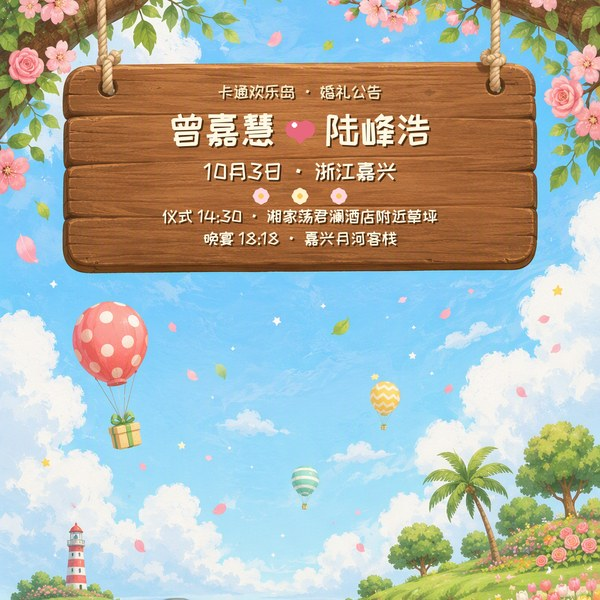
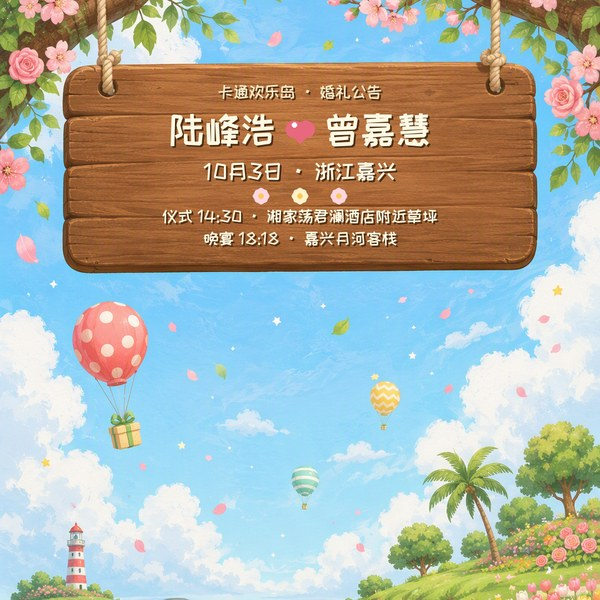
名字顺序统一为陆峰浩在前、曾嘉慧在后（标题/卡片/火漆印/广播字幕/海报）

Changed region(s): [[0.27, 0.18, 0.48, 0.27], [0.54, 0.18, 0.72, 0.27]]

diff --git a/index.html b/index.html
@@ -8,20 +8,20 @@
     <meta http-equiv="Expires" content="0" />
     <meta name="viewport" content="width=device-width, initial-scale=1, viewport-fit=cover" />
     <meta name="theme-color" content="#60bafa" />
-    <title>曾嘉慧 ♥ 陆峰浩 · 邀请你登岛</title>
+    <title>陆峰浩 ♥ 曾嘉慧 · 邀请你登岛</title>
     <meta name="description" content="卡通欢乐岛婚礼请柬 · 10月3日 浙江嘉兴 · 仪式14:30 晚宴18:18" />
     <!-- 微信 / QQ 分享卡片：聊天里粘贴只有文字链接，需在本页右上角「···」→「发送给朋友」才生成卡片 -->
     <meta property="og:type" content="website" />
     <meta property="og:site_name" content="卡通欢乐岛" />
-    <meta property="og:title" content="曾嘉慧 ♥ 陆峰浩 · 邀请你登岛" />
+    <meta property="og:title" content="陆峰浩 ♥ 曾嘉慧 · 邀请你登岛" />
     <meta property="og:description" content="卡通欢乐岛婚礼请柬 · 10月3日 浙江嘉兴 · 仪式14:30 晚宴18:18" />
     <meta property="og:url" content="https://artemistokenization.github.io/acnh-invitation/" />
     <meta property="og:image" content="https://artemistokenization.github.io/acnh-invitation/share.jpg" />
-    <meta property="mp:title" content="曾嘉慧 ♥ 陆峰浩 · 邀请你登岛" />
+    <meta property="mp:title" content="陆峰浩 ♥ 曾嘉慧 · 邀请你登岛" />
     <meta property="mp:desc" content="卡通欢乐岛婚礼请柬 · 10月3日 浙江嘉兴 · 仪式14:30 晚宴18:18" />
     <meta property="mp:image:" content="https://artemistokenization.github.io/acnh-invitation/share.jpg" />
     <link rel="icon" href="data:," />
-    <link rel="stylesheet" href="styles.css?v=46" />
+    <link rel="stylesheet" href="styles.css?v=47" />
   </head>
   <body>
     <div class="app">
@@ -183,7 +183,7 @@
         <section class="scene scene-broadcast" id="scene-broadcast">
           <div class="petals" aria-hidden="true"><i></i><i></i><i></i><i></i><i></i><i></i></div>
           <div class="booth">
-            <video class="character" id="character" data-src="cast.mp4?v=46" poster="poster.jpg?v=46" playsinline webkit-playsinline="true" x5-playsinline="" x5-video-player-type="h5-page" x5-video-player-fullscreen="false" preload="metadata" disablepictureinpicture controlslist="nodownload noplaybackrate" aria-label="西施惠岛内广播（ACNH 游戏原生过场录像，原声播放）"></video>
+            <video class="character" id="character" data-src="cast.mp4?v=47" poster="poster.jpg?v=47" playsinline webkit-playsinline="true" x5-playsinline="" x5-video-player-type="h5-page" x5-video-player-fullscreen="false" preload="metadata" disablepictureinpicture controlslist="nodownload noplaybackrate" aria-label="西施惠岛内广播（ACNH 游戏原生过场录像，原声播放）"></video>
             <span class="note-fx" id="note-fx">♪</span>
           </div>
 
@@ -248,16 +248,16 @@
             <div class="album">
               <p class="album-title"><span class="seal-leaf"></span>我们的照片</p>
               <div class="album-grid">
-                <figure class="pol pol-a"><i class="tape"></i><img data-src="p1.jpg?v=46" alt="我们的婚纱照" loading="lazy" /></figure>
-                <figure class="pol pol-b"><i class="tape"></i><img data-src="p2.jpg?v=46" alt="我们的婚纱照" loading="lazy" /></figure>
-                <figure class="pol pol-c"><i class="tape"></i><img data-src="p3.jpg?v=46" alt="我们的婚纱照" loading="lazy" /></figure>
-                <figure class="pol pol-d"><i class="tape"></i><img data-src="p4.jpg?v=46" alt="我们的婚纱照" loading="lazy" /></figure>
+                <figure class="pol pol-a"><i class="tape"></i><img data-src="p1.jpg?v=47" alt="我们的婚纱照" loading="lazy" /></figure>
+                <figure class="pol pol-b"><i class="tape"></i><img data-src="p2.jpg?v=47" alt="我们的婚纱照" loading="lazy" /></figure>
+                <figure class="pol pol-c"><i class="tape"></i><img data-src="p3.jpg?v=47" alt="我们的婚纱照" loading="lazy" /></figure>
+                <figure class="pol pol-d"><i class="tape"></i><img data-src="p4.jpg?v=47" alt="我们的婚纱照" loading="lazy" /></figure>
               </div>
             </div>
 
             <div class="letter-seal">
               <span class="seal-leaf"></span>
-              <p class="seal-names" id="w-names">曾嘉慧 ♥ 陆峰浩</p>
+              <p class="seal-names" id="w-names">陆峰浩 ♥ 曾嘉慧</p>
               <p class="seal-sub">卡通欢乐岛 · 等你登岛</p>
             </div>
             <p class="press">PRESS START · TO JOIN OUR WEDDING</p>
@@ -272,6 +272,6 @@
       </main>
       <i class="iris" id="iris" aria-hidden="true"></i>
     </div>
-    <script type="module" src="app.js?v=46"></script>
+    <script type="module" src="app.js?v=47"></script>
   </body>
 </html>

diff --git a/app.js b/app.js
@@ -1,6 +1,6 @@
 const ISLAND = "卡通欢乐岛";
 const WEDDING = {
-  names: "曾嘉慧 ♥ 陆峰浩",
+  names: "陆峰浩 ♥ 曾嘉慧",
   date: "10月3日",
   place: "浙江 · 嘉兴",
 };
@@ -435,7 +435,7 @@ async function boot() {
   setSwitch(el("btn-sound"), true, "开", "关");
   video.muted = false;
 
-  const res = await fetch("sync.json?v=46");
+  const res = await fetch("sync.json?v=47");
   const data = await res.json();
   data.lines.forEach((l) => { l._times = lineTimes(l); });
   sync = data;
